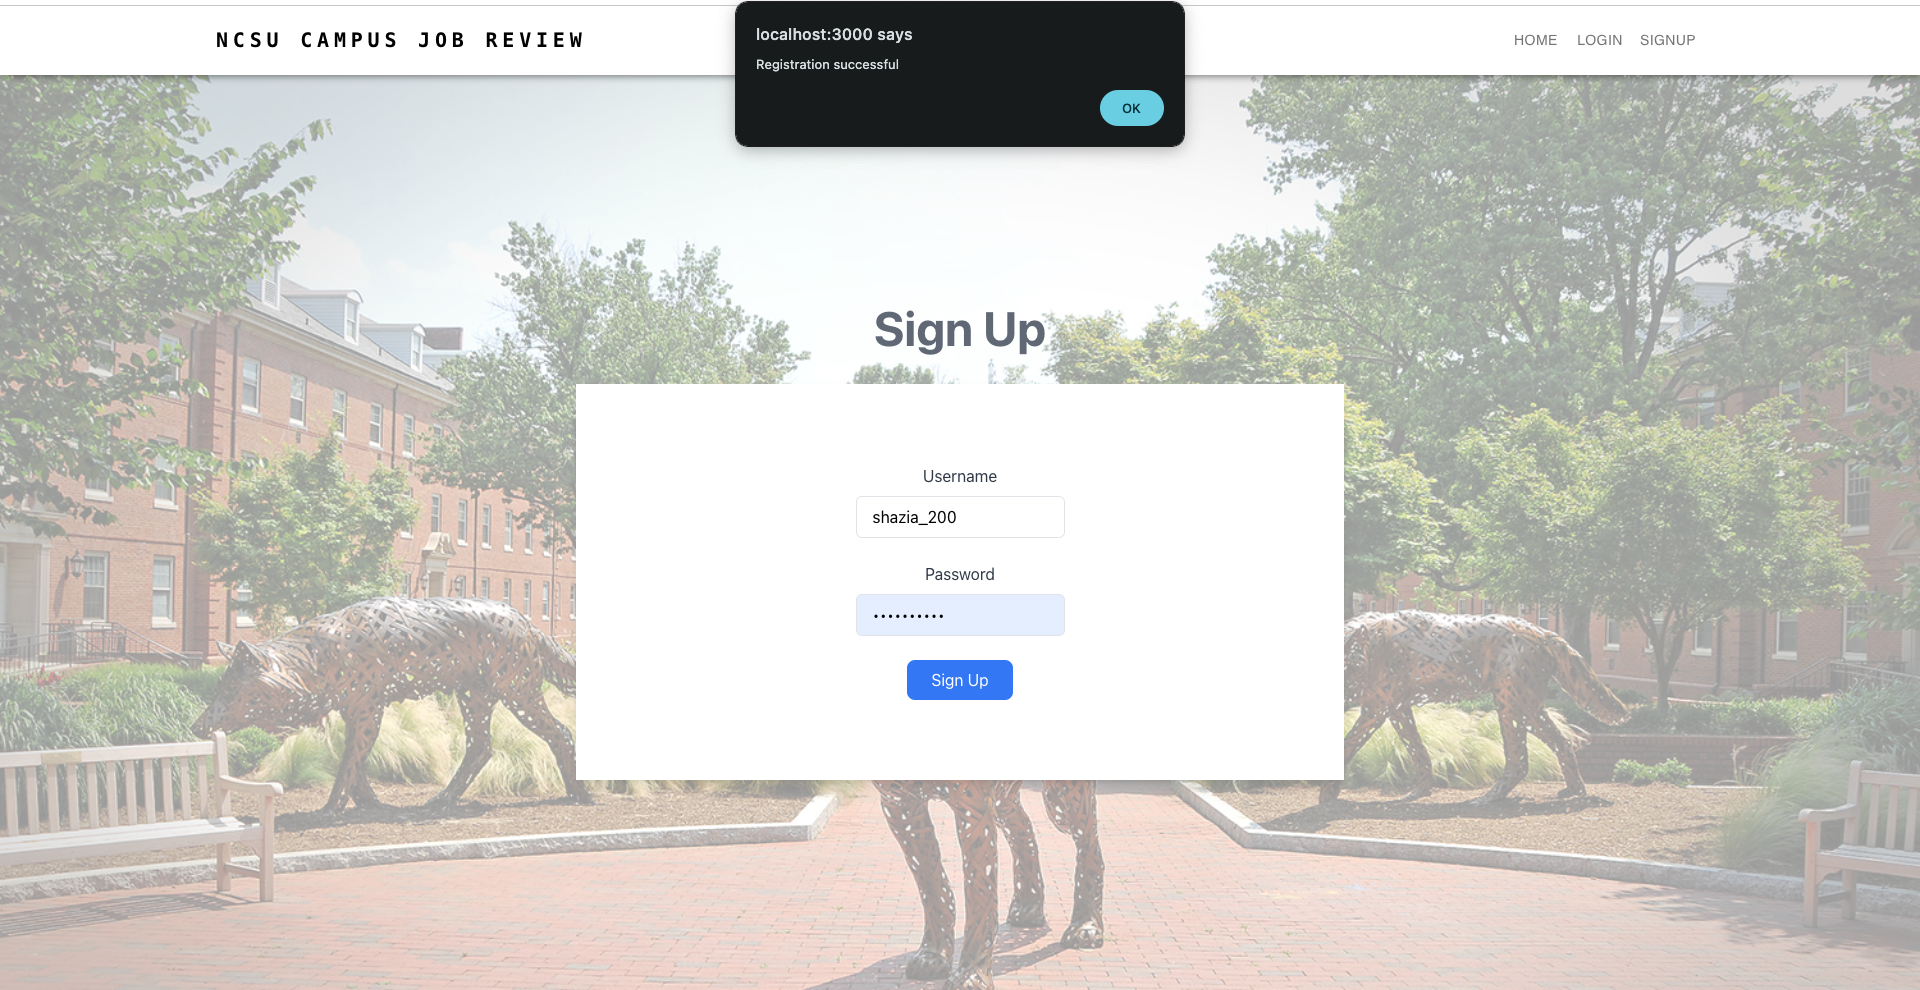
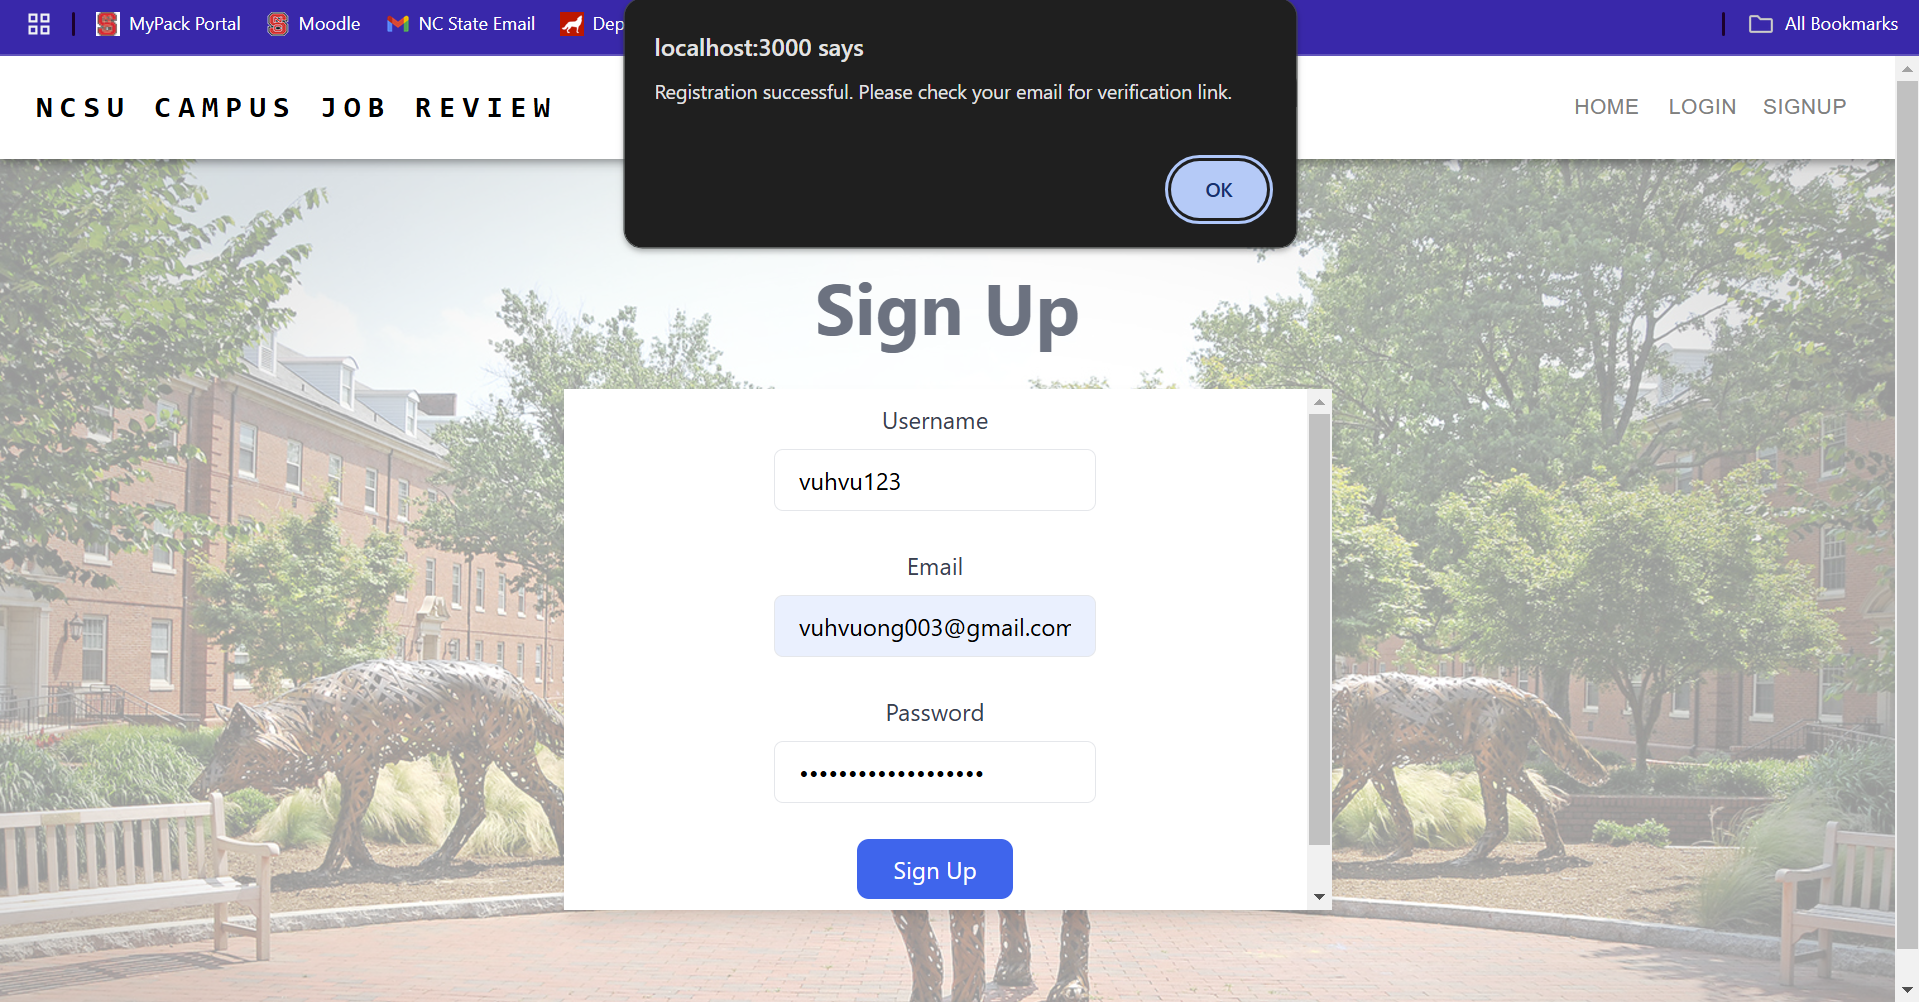
update the use case documentation for the sign up process

diff --git a/review_frontend/src/api/api.js b/review_frontend/src/api/api.js
@@ -47,7 +47,7 @@ export let review_url = base_url + "service/reviews/";
 export let all_reviews_url = base_url + "service/all_reviews/";
 
 /**
- * URL endpoint for filtering services
+ * URL endpoint for comments services
  * @constant {string}
  */
 export let comment_url = base_url + "service/comments/";

diff --git a/UseCase_Documentation.md b/UseCase_Documentation.md
@@ -11,18 +11,23 @@ As you enter our application, you will be greeted by a beautiful home page that 
 The first step as you start your journey of exploring the Campus Job Review web application is to sign up using a username and password. Make sure that your password includes letters and numbers which will make sure that you have the right requirements to sign up successfully. 
 
 Sign Up: The picture below shows the page that opens up when you click the SIGNUP button that is located on the top right corner of the landing page. 
-![SignUp-Landing-Page](docs/images/sign_up_landing.png)
+![SignUp-Landing-Page](docs/images/sign_up.png)
 
 Once you are here, choose a strong username and password to sign up yourself to start using the application. Then, click on the Sign Up button in blue. 
-![SignUp-Details-Page](docs/images/sign_up_details.png)
+![SignUp-Details-Page](docs/images/sign_up_fill.png)
 
-- Successful Registration: 
-Once you have met the requirements for the username and password, you will see a pop-up indicating a successful registration. 
-     ![SignUp-Success-Page](docs/images/sign_up_success.png)
+Successful Registration: 
+Once you have met the requirements for the username and password, you will see a pop-up indicating a successful registration. It will then tell you to visit the email that you entered to verify email address.
+![SignUp-Success-Page](docs/images/sign_up_success.png)
 
- - Failed Registration: 
- Given that a username already exists, you will not be able to sign up and will recieve a unsuccessful message. Other cases where you will not be able register successfully include not entering a username or leaving the password empty. An example of a failed registration can be seen in the picture below. 
-     ![SignUp-Failure-Page](docs/images/sign_up_failure.png)
+- Verify Email
+You will receive an email from the application. Click on the link provided to verify your email address and proceed to the log in process
+![Verify-Email](docs/images/verify_email.png)
+
+
+Failed Registration: 
+ Given that a username or email already exists, you will not be able to sign up and will recieve a unsuccessful message. Other cases where you will not be able register successfully include not entering a username or leaving the password empty. An example of a failed registration can be seen in the picture below. 
+![SignUp-Failure-Page](docs/images/sign_up_fail.png)
 
 Login:
 
